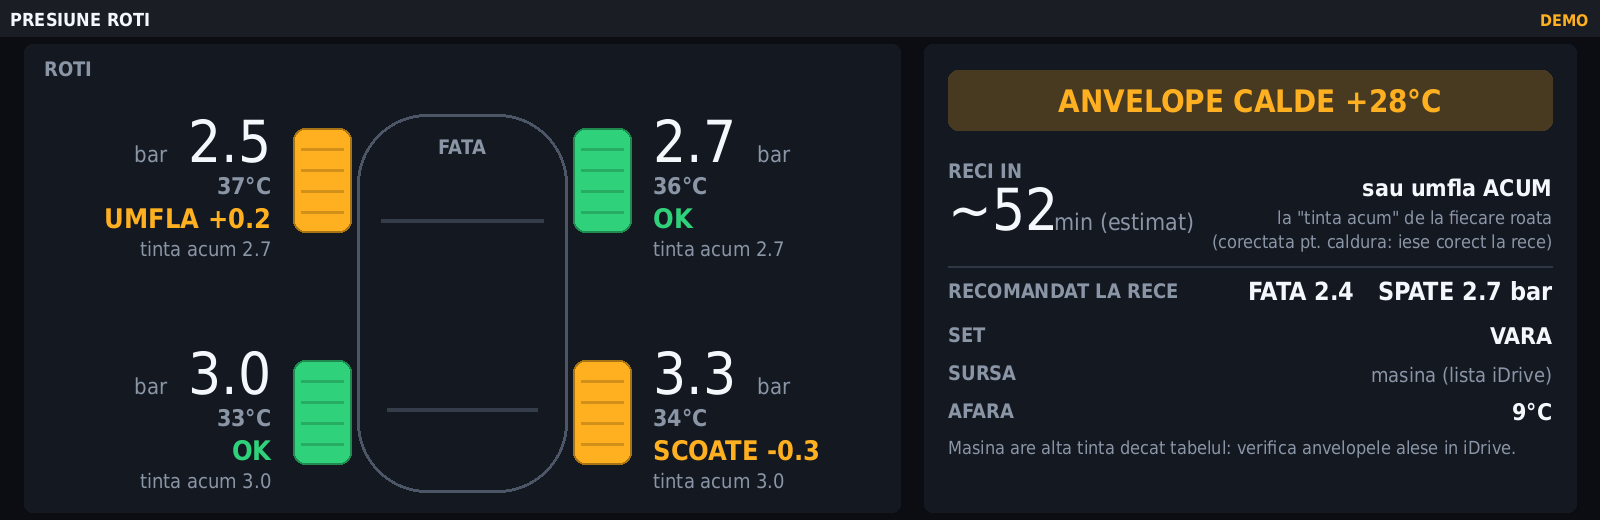
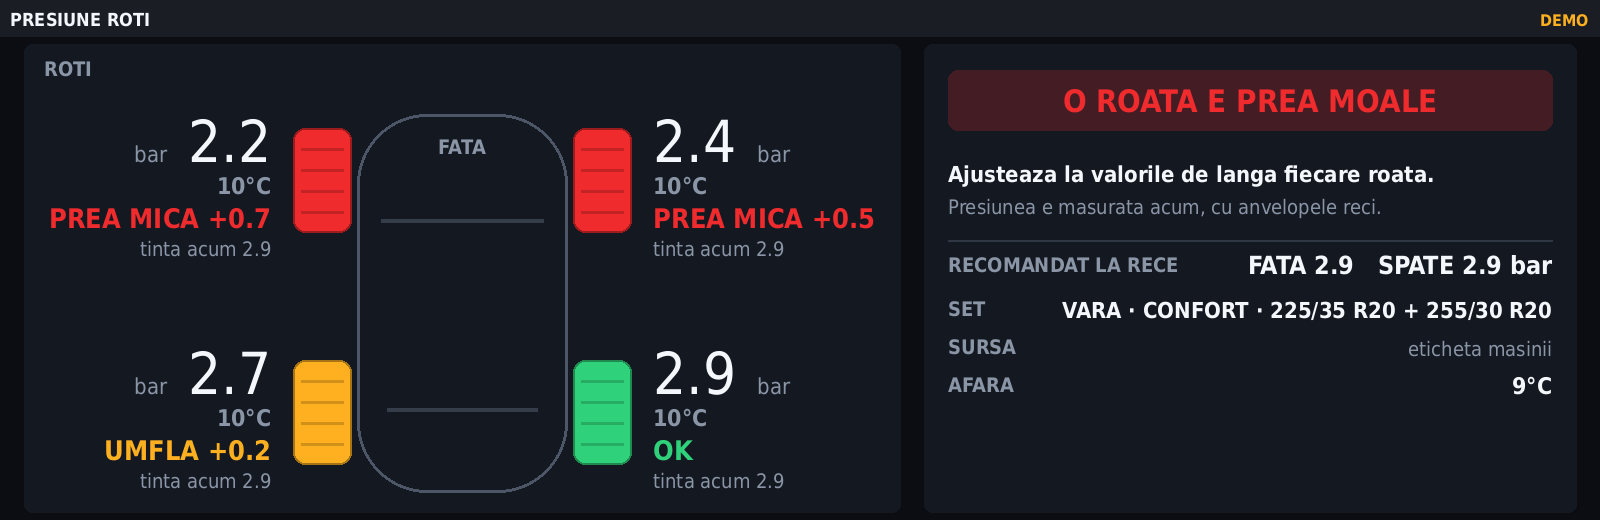
Presiune Roti 1.1.0: G20-only, 20in staggered, comfort/full-load
Tyre table rebuilt from the car's door placard (G20): per-size comfort and
full-load cold pressures, front/rear, summer + winter. Adds 225/35 R20 +
255/30 R20 (2.9/2.9 comfort, 3.2/3.5 full) so 20in staggered is selectable.
New Incarcare (comfort/full) setting; source still car / placard / manual.

Note: TPMS is read-only on MGU, so the app cannot reset RDC or write the
target pressure into the car; documented in the README.

Claude-Session: https://claude.ai/code/session_01RVzjcVtygLQoAiTqN5VP42

diff --git a/apps/novanex_tyres/pressures.js b/apps/novanex_tyres/pressures.js
@@ -1,14 +1,20 @@
 'use strict';
-// Generated by tools/novanex_tyres/fetch_pressures.py - do not edit by hand; run the script again instead.
-// Values are what the source page lists for COLD tyres. Keys are the setting values in app.json.
+// Tyre pressures for a BMW 330i (G20), read from the car's own door-pillar placard (label 6 896 168).
+// Cold pressures, bar. Two load cases: comfort (normal, up to ~3 people) and load (full, up to 5 + luggage).
+// 'season' groups sizes into the app's summer / winter picker. load:null = not read from the placard for
+// that size (use the car's value or Manual for full load there).
 module.exports = {
-  "car": "BMW 330i (G20) 2021",
-  "source": "https://tirepressure.com/2021-bmw-330i-tire-pressure",
-  "fetched": "2026-11-09",
-  "note": "US market placard values; the car's own tyre list (iDrive > Tyre pressure) is the authority for an EU car",
+  "car": "BMW 330i (G20)",
+  "source": "eticheta usa (placard 6 896 168)",
+  "fetched": "2026-11-10",
+  "note": "valori de pe eticheta masinii, la rece",
   "sets": {
-    "s225_40r19": {"label": "225/40 R19", "front": "225/40R19", "rear": "225/40R19", "frontBar": 2.41, "rearBar": 2.9},
-    "s225_40r19_255_35r19": {"label": "225/40 R19 + 255/35 R19", "front": "225/40R19", "rear": "255/35R19", "frontBar": 2.41, "rearBar": 2.62},
-    "s225_45r18": {"label": "225/45 R18", "front": "225/45R18", "rear": "225/45R18", "frontBar": 2.21, "rearBar": 2.69}
+    "s225_35r20_255_30r20": {"label": "225/35 R20 + 255/30 R20", "front": "225/35R20", "rear": "255/30R20", "season": "summer", "comfort": {"F": 2.9, "R": 2.9}, "load": {"F": 3.2, "R": 3.5}},
+    "s225_40r19_255_35r19": {"label": "225/40 R19 + 255/35 R19", "front": "225/40R19", "rear": "255/35R19", "season": "summer", "comfort": {"F": 2.7, "R": 2.7}, "load": {"F": 3.0, "R": 3.4}},
+    "s225_40r19": {"label": "225/40 R19", "front": "225/40R19", "rear": "225/40R19", "season": "summer", "comfort": {"F": 2.7, "R": 2.7}, "load": {"F": 3.0, "R": 3.4}},
+    "s225_45r18": {"label": "225/45 R18", "front": "225/45R18", "rear": "225/45R18", "season": "summer", "comfort": {"F": 2.7, "R": 2.7}, "load": {"F": 3.0, "R": 3.4}},
+    "s225_45r18_255_40r18": {"label": "225/45 R18 + 255/40 R18", "front": "225/45R18", "rear": "255/40R18", "season": "summer", "comfort": {"F": 2.7, "R": 2.7}, "load": {"F": 3.0, "R": 3.4}},
+    "s225_45r18_ms": {"label": "225/45 R18 M+S (iarna)", "front": "225/45R18", "rear": "225/45R18", "season": "winter", "comfort": {"F": 2.5, "R": 2.5}, "load": null},
+    "s225_50r17": {"label": "225/50 R17 (iarna)", "front": "225/50R17", "rear": "225/50R17", "season": "winter", "comfort": {"F": 2.3, "R": 2.3}, "load": null}
   }
 };

diff --git a/apps/novanex_tyres/main.js b/apps/novanex_tyres/main.js
@@ -108,11 +108,16 @@ mgu.run({
 
         /* ---------- recommended cold pressures ---------- */
         const isWinter = () => settings.get('tyreSet') === 'winter';
+        const isLoad = () => settings.get('loadMode') === 'load';
         function tableTarget() {
             const set = TABLE.sets[settings.get(isWinter() ? 'winterSize' : 'summerSize')];
             if (!set) return null;
+            // prefer the chosen load case; fall back to comfort if that size has no full-load value on the placard
+            const pick = (isLoad() && set.load) ? set.load : set.comfort;
+            if (!pick) return null;
             const add = isWinter() ? Number(settings.get('winterAdd')) || 0 : 0;
-            return { F: set.frontBar + add, R: set.rearBar + add, label: set.label, from: 'tabel ' + TABLE.source.replace(/^https?:\/\//, '').split('/')[0] };
+            const loadMissing = isLoad() && !set.load;
+            return { F: pick.F + add, R: pick.R + add, label: set.label + (isLoad() ? (loadMissing ? ' · confort (fara plin in tabel)' : ' · plin') : ''), from: 'eticheta masinii' };
         }
         function carTarget(d) {
             if (!A.isNum(d.ptFL) && !A.isNum(d.ptRL)) return null;
@@ -248,7 +253,7 @@ mgu.run({
             y += 44;
             const setName = isWinter() ? 'IARNA' : 'VARA';
             cv.text('SET', tx, y + 10, 22, t.dim, { font: 'bold', spacing: 1.5 });
-            cv.text(setName + (tg && tg.label ? ' · ' + tg.label : ''), tr, y + 12, 26, isWinter() ? t.cold : t.text, { align: 'right', font: 'bold' });
+            cv.text(setName + ' · ' + (isLoad() ? 'PLIN' : 'CONFORT') + (tg && tg.label ? ' · ' + tg.label : ''), tr, y + 12, 24, isWinter() ? t.cold : t.text, { align: 'right', font: 'bold' });
             y += 38;
             cv.text('SURSA', tx, y + 10, 22, t.dim, { font: 'bold', spacing: 1.5 });
             cv.text(tg ? tg.from : '--', tr, y + 12, 22, t.dim, { align: 'right' });

diff --git a/apps/novanex_tyres/README.md b/apps/novanex_tyres/README.md
@@ -1,6 +1,8 @@
-# Presiune Roti — aplicație iDrive 7 (MGU) pentru presiunea și temperatura în roți
+# Presiune Roti — aplicație iDrive 7 (MGU) pentru presiunea și temperatura în roți (BMW G20)
 
 Citește presiunea și temperatura fiecărei roți din senzorii mașinii (RDC/TPMS). Îți spune, la fiecare roată, cât să umfli sau cât să scoți. Valoarea e **corectată după cât de calde sunt anvelopele în acel moment**.
+
+> Aplicația e pentru **BMW Seria 3 G20**. Dimensiunile și valorile din tabel sunt luate de pe eticheta de pe stâlpul ușii (placard BMW), la rece.
 
 ## Ce face
 
@@ -8,39 +10,26 @@ Citește presiunea și temperatura fiecărei roți din senzorii mașinii (RDC/TP
 - **Anvelope reci sau calde.** Dacă cea mai caldă roată are peste 5 °C (reglabil) mai mult decât temperatura de afară, anvelopele sunt calde. Aplicația arată în câte minute se răcesc. Cât timp mașina stă, viteza de răcire se măsoară; până atunci folosește o estimare.
 - **„Țintă acum".** Aerul cald are presiune mai mare. O roată umflată corect, după 20 de minute de mers, arată cu ~0,25 bar mai mult. Dacă la benzinărie umfli la valoarea „la rece", rămâi cu roțile moi după ce se răcesc. Aplicația calculează (legea gazelor) cât trebuie să arate fiecare roată **acum**, ca să ajungă exact la valoarea recomandată când se răcește.
 - **Set de vară sau de iarnă.** Butonul „Schimbă vară / iarnă" comută setul, iar la Setări alegi dimensiunea pentru fiecare set.
+- **Confort / Sarcină plină.** La Setări → „Încărcare" alegi între presiunea de confort (normal, până la ~3 persoane) și cea de sarcină plină (5 persoane + bagaje), ca pe etichetă.
 - **Regula de 7 °C.** Sub 7 °C, cu setul de vară montat, îți amintește de anvelopele de iarnă.
 
 ## De unde vine presiunea recomandată (Setări → „Presiunea recomandată din")
 
-1. **Mașina, altfel tabel (implicit, recomandat).** Folosește ținta pe care o trimite mașina, adică anvelopele selectate în iDrive la monitorizarea presiunii (Mașina mea → Starea vehiculului → Presiune anvelope → Anvelope). E valoarea oficială BMW pentru mașina ta, inclusiv pentru iarnă. Dacă mașina nu trimite ținta, se folosește tabelul.
-2. **Tabel (site presiuni).** Valori luate de pe un site de presiuni cu `tools/novanex_tyres/fetch_pressures.py`.
-3. **Valori introduse de mine.** Le setezi la Setări, separat pentru vară și iarnă, față și spate.
+1. **Mașina, altfel eticheta (implicit, recomandat).** Folosește ținta pe care o trimite mașina, adică anvelopele selectate în iDrive la monitorizarea presiunii (Mașina mea → Starea vehiculului → Presiune anvelope → Anvelope). E valoarea oficială BMW pentru mașina ta. Dacă mașina nu trimite ținta, se folosește tabelul de pe etichetă.
+2. **Eticheta mașinii (tabel).** Valorile de pe placardul G20 (`pressures.js`), pe dimensiune, confort/plin, vară/iarnă. Dimensiunile incluse: 20" `225/35 R20 + 255/30 R20`, 19"/18" vară, și 17"/18" M+S iarnă.
+3. **Valori introduse de mine.** Le setezi la Setări, separat pentru vară și iarnă, față și spate — pentru orice dimensiune, fără listă.
 
-> Tabelul inclus vine de pe tirepressure.com (BMW 330i 2021) și are **valori pentru piața SUA**. La o mașină europeană pot diferi de eticheta de pe stâlpul ușii. Dacă ținta mașinii diferă de tabel, aplicația afișează un avertisment.
+## Ce NU poate aplicația (sincer)
 
-### Actualizezi tabelul pentru mașina ta
+- **Nu poate face reset la TPMS/RDC** și **nu poate scrie presiunea-țintă în mașină.** Pe MGU, interfața TPMS e doar-citire; nu există o metodă de reset sau de setare a țintei expusă aplicațiilor. Resetul RDC se face din meniul iDrive (Starea vehiculului → Presiune anvelope → Reset), după ce ai umflat la valorile de aici. Singura cale posibilă dintr-o aplicație ar fi o rutină de diagnostic (ca „Engine Config" pentru clapeta de evacuare), neverificată încă — de confirmat pe banc înainte de a o folosi pe mașină.
 
-```bash
-# de pe site (pagina modelului/anului tău)
-python3 tools/novanex_tyres/fetch_pressures.py https://tirepressure.com/2021-bmw-330i-tire-pressure
+### Tabelul
 
-# sau valorile de pe eticheta ușii (recomandat pentru mașini EU)
-python3 tools/novanex_tyres/fetch_pressures.py --csv eticheta.csv --car "BMW 330i G20"
-```
-
-`eticheta.csv` (presiuni la rece, în bar):
-
-```
-label,front,rear,front_bar,rear_bar
-225/45 R18,225/45R18,225/45R18,2.4,2.6
-225/40 R19 + 255/35 R19,225/40R19,255/35R19,2.5,2.8
-```
-
-Scriptul scrie `pressures.js` și actualizează lista de dimensiuni din Setări. Site-ul se citește o singură dată, la build, deci mașina nu are nevoie de internet. Scriptul respectă `robots.txt` al site-ului. După rulare, mărește `version` în `app.json`.
+Tabelul (`apps/novanex_tyres/pressures.js`) e scris de mână după eticheta G20. Fiecare dimensiune are `comfort` și `load` (plin), față/spate, și `season` (vară/iarnă). Ca să adaugi o dimensiune, adaugi o intrare în `pressures.js` și o opțiune în `summerSize`/`winterSize` din `app.json`, apoi urci `version`. (Scriptul vechi `fetch_pressures.py` era pentru tabele de pe site, format diferit — nu-l folosi peste `pressures.js` actual.)
 
 ## Cum o pui în Store
 
-1. În mașină: Store → Settings → **Add source** → `techechanter/idrive7-apps-novanex` → branch `main`.
+1. În mașină: Store → Settings → **Add source** → `andreipaducel/idrive7-apps-novanex` → branch `main`.
 2. „Presiune Roti" apare în Store. Apeși Install, iar unitatea o compilează singură.
 
 Aplicația e făcută pe kit-ul din [idrive7-apps](https://github.com/cauliflowermossgrape/idrive7-apps). Ca să apară la toată lumea, poți trimite un Pull Request cu `apps/novanex_tyres/` și `tools/novanex_tyres/` către repo-ul acela, care e sursă implicită în Store.
